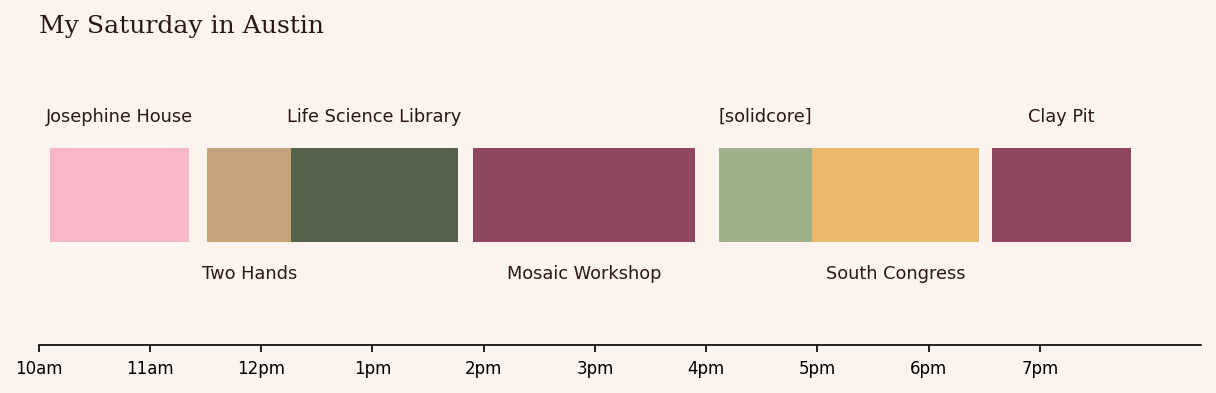
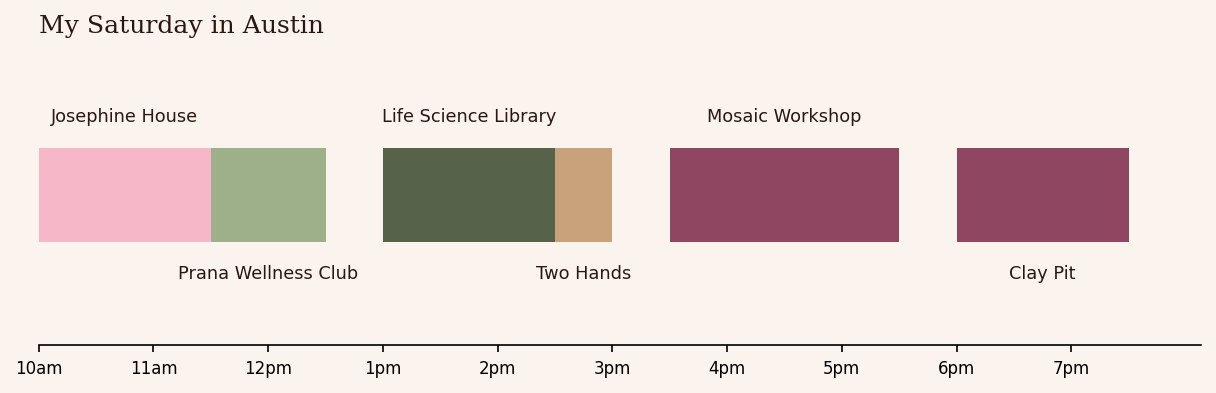
Live on GitHub Pages; every stop starts on the hour or half hour

diff --git a/index.html b/index.html
@@ -1,0 +1,95 @@
+<!DOCTYPE html>
+<html lang="en">
+<head>
+    <meta charset="utf-8">
+    <meta name="viewport" content="width=device-width, initial-scale=1">
+    <title>Saturday in Austin</title>
+    <meta name="description" content="Tell it when you wake up, when you go to bed and how long you want to be out. It plans the best day around Austin.">
+    <meta property="og:title" content="Saturday in Austin">
+    <meta property="og:description" content="A Python day planner for Austin, running right in your browser.">
+    <meta property="og:image" content="https://suhxnitiwari.github.io/saturday-in-austin/docs/example-saturday.png">
+    <style>
+        :root {
+            --mul: #8F4661; --choc: #2A1810; --muted: #7A665F; --cream: #FBF3EE; --blush: #F6DDE3;
+            --serif: Georgia, "Times New Roman", serif;
+            --sans: -apple-system, BlinkMacSystemFont, "Segoe UI", system-ui, sans-serif;
+            --mono: ui-monospace, SFMono-Regular, Menlo, Consolas, monospace;
+        }
+        * { box-sizing: border-box; }
+        body { margin: 0; background: var(--cream); color: var(--choc); font-family: var(--sans); }
+        main { max-width: 760px; margin: 0 auto; padding: 56px 16px 70px; }
+        .badge { display: inline-flex; gap: 6px; padding: 5px 12px; border-radius: 999px; background: var(--blush); color: var(--mul); font-size: 11.5px; font-weight: 700; letter-spacing: 0.12em; text-transform: uppercase; }
+        h1 { margin: 14px 0 12px; font-family: var(--serif); font-weight: 400; font-size: clamp(40px, 8vw, 60px); line-height: 1.05; }
+        .sub { margin: 0 0 30px; font-size: 17.5px; line-height: 1.6; color: var(--muted); }
+
+        .sat-planner { display: flex; flex-direction: column; min-height: 30em; background: #2A1810; border-radius: 16px; overflow: hidden; box-shadow: 0 30px 60px -35px rgba(42, 24, 16, 0.5); }
+        .bar { display: flex; align-items: center; gap: 7px; padding: 12px 14px; background: #3B2A24; }
+        .bar span { width: 10px; height: 10px; border-radius: 50%; background: rgba(255, 248, 246, 0.28); }
+        .bar em { margin-left: 8px; font-style: normal; font-size: 12px; color: #D9B8B3; }
+        .sat-form { display: grid; grid-template-columns: 1fr 1fr; gap: 12px 14px; padding: 18px 20px 16px; border-bottom: 1px solid rgba(245, 229, 225, 0.12); }
+        .sat-form label { display: flex; flex-direction: column; gap: 6px; font: 600 11px/1 var(--sans); letter-spacing: 0.1em; text-transform: uppercase; color: #D9B8B3; }
+        .sat-form input[type="time"], .sat-form select { font: 14px var(--mono); color: #F5E5E1; background: #3B2A24; border: 1px solid rgba(245, 229, 225, 0.18); border-radius: 8px; padding: 8px 10px; color-scheme: dark; }
+        .sat-hours span { display: flex; align-items: center; gap: 10px; }
+        .sat-hours input { flex: 1; accent-color: #E9A6BC; }
+        .sat-hours output { min-width: 2.2em; font: 14px var(--mono); color: #F5E5E1; letter-spacing: 0; }
+        .sat-form button { grid-column: 1 / -1; padding: 11px 16px; border: 0; border-radius: 999px; background: #E9A6BC; color: var(--choc); font: 700 14px var(--sans); cursor: pointer; }
+        .sat-form button:hover { background: #F2C1D1; }
+        .sat-form button:disabled { opacity: 0.6; cursor: progress; }
+        .sat-form :focus-visible, a:focus-visible { outline: 2px solid #E9A6BC; outline-offset: 2px; }
+        .sat-out { flex: 1; padding: 16px 20px 20px; font: 13.5px/1.75 var(--mono); color: #F5E5E1; }
+        .sat-out p { margin: 0; }
+        .sat-status { color: #D9B8B3; font-family: var(--sans); font-size: 14px; line-height: 1.6; }
+        .sat-head { color: #E9A6BC; font-weight: 700; margin-bottom: 6px !important; }
+        .sat-row { display: grid; grid-template-columns: 7.2em 1fr; }
+        .sat-row b { font-weight: 400; color: #D9B8B3; }
+        .sat-row i { font-style: normal; color: #A98F89; }
+        .sat-free span { color: #A98F89; }
+        .sat-foot { margin-top: 12px !important; color: #A98F89; font-size: 12px; }
+
+        .links { display: flex; flex-wrap: wrap; gap: 12px; margin-top: 26px; }
+        .links a { padding: 10px 18px; border-radius: 999px; font-size: 14px; text-decoration: none; border: 1px solid var(--mul); color: var(--mul); }
+        .links a.solid, .links a:hover { background: var(--mul); color: #fff; }
+        footer { margin-top: 44px; font-size: 13px; color: var(--muted); }
+        @media (max-width: 560px) {
+            .sat-form { grid-template-columns: 1fr; }
+            .sat-row { grid-template-columns: 6.4em 1fr; }
+        }
+    </style>
+</head>
+<body>
+<main>
+    <span class="badge">✦ Suhani Coded™</span>
+    <h1>Saturday in Austin</h1>
+    <p class="sub">Tell it when you wake up, when you go to bed and how long you want to be out. It plans the day from my favorite Austin spots: coffee first, brunch before noon, dinner somewhere wonderful. Every click is a different Saturday.</p>
+
+    <div class="sat-planner">
+        <div class="bar"><span aria-hidden="true"></span><span aria-hidden="true"></span><span aria-hidden="true"></span><em>python -m saturday</em></div>
+        <form class="sat-form">
+            <label>Wake up <input type="time" name="wake" value="09:00" required></label>
+            <label>Bedtime <input type="time" name="sleep" value="23:00" required></label>
+            <label class="sat-hours">Hours out <span><input type="range" name="hours" min="1" max="14" step="0.5" value="8"><output>8</output></span></label>
+            <label>Mood
+                <select name="mood">
+                    <option value="everything">Surprise me</option>
+                    <option value="cozy">Cozy</option>
+                    <option value="creative">Creative</option>
+                    <option value="foodie">Foodie</option>
+                    <option value="productive">Productive</option>
+                </select>
+            </label>
+            <button type="submit">Plan my Saturday ✦</button>
+        </form>
+        <div class="sat-out" aria-live="polite">
+            <p class="sat-status">Pick your times and hit plan. The Python code in this repo runs right here in your browser, and every click is a different Saturday.</p>
+        </div>
+    </div>
+
+    <div class="links">
+        <a class="solid" href="https://github.com/suhxnitiwari/saturday-in-austin">View the code ↗</a>
+        <a href="https://suhanitiwari.com">suhanitiwari.com</a>
+    </div>
+    <footer>Built by Suhani Tiwari in Python. Runs in your browser with Pyodide.</footer>
+</main>
+<script src="web/app.js" defer></script>
+</body>
+</html>

diff --git a/web/app.js b/web/app.js
@@ -1,0 +1,101 @@
+// Saturday in Austin ✦ runs the Python planner in this repo
+// in the visitor's browser with Pyodide. Python only downloads once someone opens the slide.
+(() => {
+    const root = document.querySelector('.sat-planner');
+    if (!root) return;
+
+    const PYODIDE = 'https://cdn.jsdelivr.net/pyodide/v0.26.4/full/';
+    const BASE = 'saturday/';  // served straight from this repo by GitHub Pages
+    const FILES = ['__init__.py', '__main__.py', 'city.py', 'planner.py', 'spots.py', 'web.py', 'data/spots.csv'];
+
+    const form = root.querySelector('.sat-form');
+    const out = root.querySelector('.sat-out');
+    const button = form.querySelector('button');
+    const hours = form.elements.hours;
+    const hoursOut = form.querySelector('.sat-hours output');
+
+    hours.addEventListener('input', () => { hoursOut.textContent = hours.value; });
+
+    const loadScript = src => new Promise((resolve, reject) => {
+        const s = document.createElement('script');
+        s.src = src;
+        s.onload = resolve;
+        s.onerror = reject;
+        document.head.appendChild(s);
+    });
+
+    let python = null;
+    function boot() {
+        if (python) return python;
+        python = (async () => {
+            await loadScript(PYODIDE + 'pyodide.js');
+            const py = await loadPyodide({ indexURL: PYODIDE });
+            py.FS.mkdirTree('/home/pyodide/saturday/data');
+            await Promise.all(FILES.map(async f => {
+                const r = await fetch(BASE + f);
+                if (!r.ok) throw new Error(`couldn't load ${f}`);
+                py.FS.writeFile('/home/pyodide/saturday/' + f, await r.text());
+            }));
+            py.runPython('import sys; sys.path.insert(0, "/home/pyodide")\nfrom saturday.web import plan_json');
+            return py.globals.get('plan_json');
+        })();
+        python.catch(() => { python = null; });  // let the next click try again
+        return python;
+    }
+
+    // start downloading Python as soon as the slide is on screen, so the first click is quick
+    new IntersectionObserver((entries, obs) => {
+        if (entries.some(e => e.isIntersecting)) { boot().catch(() => {}); obs.disconnect(); }
+    }).observe(root);
+
+    const line = (cls, ...parts) => {
+        const p = document.createElement('p');
+        p.className = cls;
+        parts.forEach(([tag, text]) => {
+            const el = document.createElement(tag);
+            el.textContent = text;
+            p.appendChild(el);
+        });
+        return p;
+    };
+
+    function draw(plan) {
+        out.replaceChildren();
+        if (!plan.stops.length) {
+            out.appendChild(line('sat-status', ['span', 'Nothing fits between waking up and bedtime. Try more hours out, or a later bedtime.']));
+            return;
+        }
+        out.appendChild(line('sat-head', ['span', 'Your Saturday ✦']));
+        for (const s of plan.stops) {
+            if (s.free) {
+                const h = Math.floor(s.free / 60), m = s.free % 60;
+                out.appendChild(line('sat-row sat-free', ['b', s.time], ['span', `free time (${h ? `${h}h ${m}m` : `${m} min`}): nap, journal, wander`]));
+            } else {
+                const row = line('sat-row', ['b', s.time], ['span', s.name]);
+                if (s.note) row.lastChild.appendChild(Object.assign(document.createElement('i'), { textContent: ` (${s.note})` }));
+                out.appendChild(row);
+            }
+        }
+        out.appendChild(line('sat-row', ['b', plan.home], ['span', 'home, happy']));
+        const count = plan.stops.filter(s => s.name).length;
+        out.appendChild(line('sat-foot', ['span',
+            `${count} stops · ${plan.hours_out} hours out · ${plan.driving} min of driving · seed ${plan.seed}`]));
+    }
+
+    form.addEventListener('submit', async e => {
+        e.preventDefault();
+        button.disabled = true;
+        const first = !python;
+        out.replaceChildren(line('sat-status', ['span', first ? 'Waking up Python in your browser… (first time takes a few seconds)' : 'Planning…']));
+        try {
+            const plan = await boot();
+            const f = form.elements;
+            draw(JSON.parse(plan(f.wake.value, f.sleep.value, Number(f.hours.value), f.mood.value, '')));
+            button.textContent = 'Plan another ✦';
+        } catch (err) {
+            out.replaceChildren(line('sat-status', ['span', 'Python took a nap. Check your connection and try again ✦']));
+        } finally {
+            button.disabled = false;
+        }
+    });
+})();

diff --git a/saturday/planner.py b/saturday/planner.py
@@ -18,7 +18,7 @@ from dataclasses import dataclass, field
 from .city import City
 
 INF = float("inf")
-from .spots import WINDOWS, Spot
+from .spots import WINDOWS, Spot, half_hour
 
 
 @dataclass
@@ -105,7 +105,7 @@ def plan_day(spots: list, city: City, home: str, leave: int, end: int,
     finish, prev = {}, {}
     layer = {}
     for i, s in enumerate(spots):
-        begin = max(leave + city.minutes(home, s.zone), opens[i][0])
+        begin = half_hour(max(leave + city.minutes(home, s.zone), opens[i][0]))
         if begin <= opens[i][1] and begin + stay[i] + back[i] <= end:
             layer[(1 << i, catbit[i]), i] = begin + stay[i]
     while layer:
@@ -115,7 +115,7 @@ def plan_day(spots: list, city: City, home: str, leave: int, end: int,
             for j in range(n):
                 if mask >> j & 1 or cats & catbit[j] or phase[j] < phase[last]:
                     continue
-                begin = max(t + drive[last][j], opens[j][0])
+                begin = half_hour(max(t + drive[last][j], opens[j][0]))
                 if begin > opens[j][1]:
                     continue
                 done = begin + stay[j]

diff --git a/saturday/spots.py b/saturday/spots.py
@@ -30,6 +30,11 @@ SLOTS = {"brunch": "midday meal", "lunch": "midday meal"}
 PHASE = {"dinner": 1, "late night": 2}
 
 
+def half_hour(minutes: float) -> int:
+    """Round up to the next :00 or :30. 1:37 PM -> 2:00 PM, 1:30 PM stays 1:30 PM."""
+    return -(-int(minutes) // 30) * 30
+
+
 class UnknownSpotError(KeyError):
     def __init__(self, name: str, suggestion) -> None:
         hint = f" Did you mean {suggestion}?" if suggestion else ""
@@ -55,9 +60,10 @@ class Spot:
         return PHASE.get(self.category, 0)
 
     def opens_by(self, arrival: float):
-        """When the visit can start: now, after waiting for its window, or None if it's too late."""
+        """When the visit can start, on the next hour or half hour (plans say 1:30, not 1:37),
+        after waiting for its window if needed. None if it's too late."""
         earliest, latest = WINDOWS[self.category]
-        start = max(arrival, earliest)
+        start = half_hour(max(arrival, earliest))
         return start if start <= latest else None
 
 

diff --git a/saturday/__main__.py b/saturday/__main__.py
@@ -14,7 +14,7 @@ from pathlib import Path
 
 from .city import City
 from .planner import plan_outing, shortlist
-from .spots import MOODS, Guide, UnknownSpotError, load
+from .spots import MOODS, Guide, UnknownSpotError, half_hour, load
 
 PINK, BOLD, DIM, RESET = "\033[38;5;211m", "\033[1m", "\033[2m", "\033[0m"
 
@@ -77,7 +77,7 @@ def main(argv=None) -> int:
             print(f"  {clock(stop.arrive - stop.drive):>8}  {DIM}free time ({length}): nap, journal, wander{RESET}")
         note = f"  {DIM}({stop.spot.note}){RESET}" if stop.spot.note else ""
         print(f"  {clock(stop.start):>8}  {stop.spot.name}{note}")
-    print(f"  {clock(plan.home_by):>8}  home, happy")
+    print(f"  {clock(half_hour(plan.home_by)):>8}  home, happy")
     out = f"{plan.outside / 60:.1f}".rstrip("0").rstrip(".")
     stops = f"{len(plan.stops)} stop{'s' * (len(plan.stops) != 1)}"
     print(f"\n  {DIM}{stops} · {out} hours out · {plan.driving} min of driving · seed {seed}{RESET}")

diff --git a/saturday/web.py b/saturday/web.py
@@ -7,7 +7,7 @@ import random
 from .__main__ import clock
 from .city import City
 from .planner import plan_outing, shortlist
-from .spots import Guide, load
+from .spots import Guide, half_hour, load
 
 _GUIDE, _CITY = Guide(load()), City()
 
@@ -29,7 +29,7 @@ def plan_json(wake: str, sleep: str, hours: float, mood: str = "everything", see
         "seed": seed,
         "stops": stops,
         "leave": clock(plan.leave) if plan.stops else None,
-        "home": clock(plan.home_by) if plan.stops else None,
+        "home": clock(half_hour(plan.home_by)) if plan.stops else None,
         "hours_out": round(plan.outside / 60, 1),
         "driving": plan.driving,
     })

diff --git a/README.md b/README.md
@@ -1,23 +1,24 @@
 # Saturday in Austin ✦
 
-**Tell it how long you have and what you're in the mood for. It plans the best day around Austin.**
+**Tell it when you wake up, when you go to bed and how long you want to be out. It plans the best day around Austin.**
+
+**[Try it live →](https://suhxnitiwari.github.io/saturday-in-austin/)** (the Python runs right in your browser)
 
 Every run is a different Saturday, drawn from my favorite coffee shops, brunches, Pilates and yoga, pottery studios, shopping and dinners.
 
 ```
 $ python -m saturday
 
-Your Saturday ✦  everything, 10 hours from West Campus
-  10:06 AM  Josephine House
-  11:31 AM  Two Hands
-  12:16 PM  Life Science Library  (the prettiest study spot)
-   1:54 PM  Mosaic Workshop
-   4:07 PM  [solidcore]  (Pilates)
-   4:57 PM  South Congress  (Kendra Scott and Tecovas)
-   6:34 PM  Clay Pit  (North Indian)
-   7:57 PM  home, happy
+Your Saturday ✦  everything, up at 9:00 AM, bed by 11:00 PM
+  10:00 AM  Josephine House
+  11:30 AM  Prana Wellness Club  (Pilates: the best reset)
+   1:00 PM  Life Science Library  (the prettiest study spot)
+   2:30 PM  Two Hands
+   3:30 PM  Mosaic Workshop
+   6:00 PM  Clay Pit  (North Indian)
+   8:00 PM  home, happy
 
-  7 stops · 44 min of driving · seed 5
+  6 stops · 9.7 hours out · 30 min of driving · seed 5
   run it again for a different Saturday ✦
 ```
 
@@ -35,9 +36,10 @@ python3 -m venv .venv && .venv/bin/pip install matplotlib pytest
 
 | Option | What it does |
 |---|---|
-| `--hours 10` | how long you have |
+| `--wake 9:00` | when you wake up |
+| `--sleep 23:00` | when you go to bed (after midnight works too) |
+| `--hours 10` | how many hours you want to be out |
 | `--mood` | `cozy`, `creative`, `foodie`, `productive` or `everything` |
-| `--start 10:00` | when you leave |
 | `--home "West Campus"` | where the day starts and ends |
 | `--include "Numero 28"` | a spot you have to go to (typos get a "did you mean?") |
 | `--skip PCL` | a spot to leave out |
@@ -47,10 +49,11 @@ python3 -m venv .venv && .venv/bin/pip install matplotlib pytest
 ## The rules every plan follows
 
 - Every stop starts when it makes sense: brunch in the morning, dinner in the evening, pottery before the studio closes.
+- Stops start on the hour or half hour, like a real plan.
+- You leave after getting ready and you're home before bed, and the planner picks the best stretch of the day for the hours you want out.
 - One stop per slot: one coffee, one midday meal (brunch *or* lunch), one dinner.
 - Nothing after dinner except a late-night snack.
 - There is always coffee.
-- You're home by the time you said.
 
 ## How it works
 
